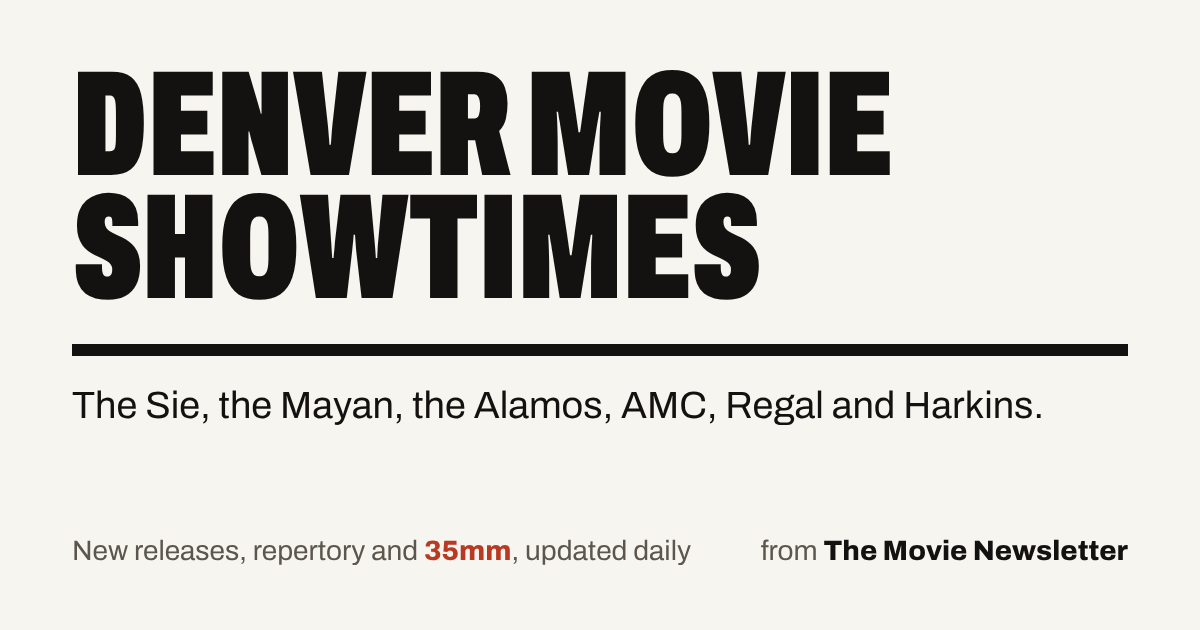
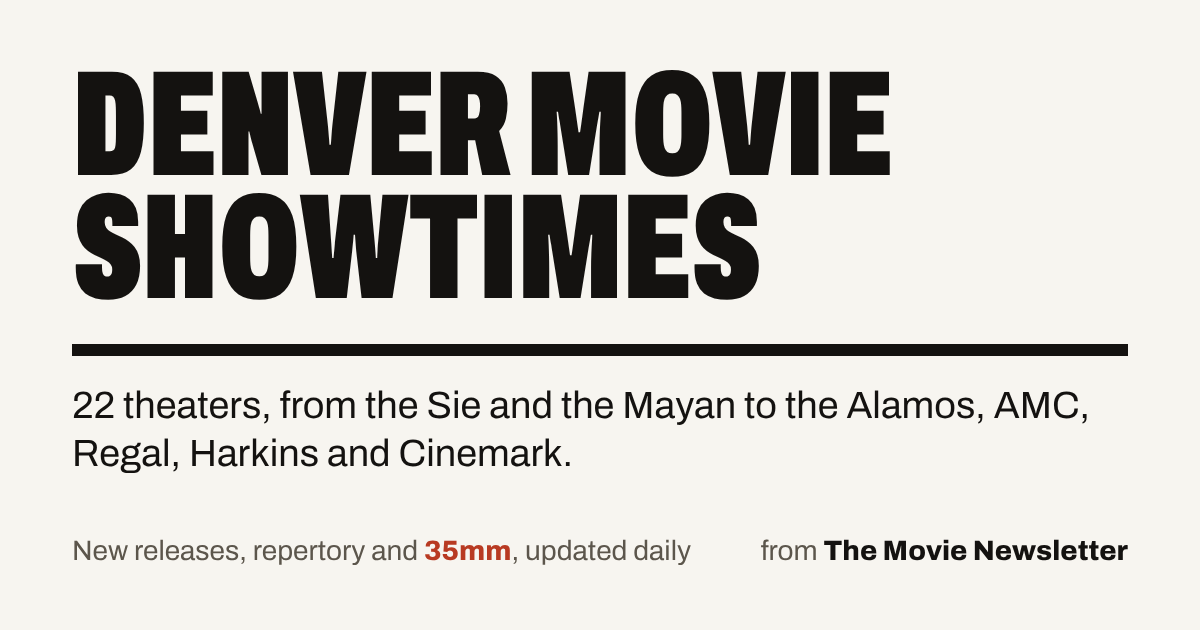
Add every theater within 15 miles of 80218 (22 in all)
Ten more theaters, all on Fandango and unchecked by default, so readers
anywhere in the metro can find the ones nearest them: AMC Dine-In Cherry
Creek 8, Bowles Crossing 12, Highlands Ranch 24 and Arapahoe Crossing 16;
Regal River Point, SouthGlenn and UA Colorado Mills; Cinemark Century
Bel Mar and Century Aurora; Movie Tavern Aurora.

- Distance picks gain "10 mi" (the new theaters run out to 13 mi, so
  5 mi -> any distance jumped straight to all 22).
- data.json lists each poster URL once per film (the page gathers
  posters per film); a failed theater's carried rows get theirs back.
  Cuts a third of the file: 22 theaters come to ~4.6 MB raw, ~570 KB
  gzipped, instead of ~6.6 MB.
- Drop Cinemark Secret Movie Series (with Harkins Secret Cinema); strip
  "- Super Ticket" bundles.
- Footer links Cinemark and Movie Tavern; Substack card and docs updated.

Claude-Session: https://claude.ai/code/session_01Tp9dhwuJZfa7VfqqSeWP34

Changed region(s): [[0.0617, 0.6032, 0.8942, 0.6937], [0.0617, 0.6937, 0.4625, 0.754]]

diff --git a/public/app.js b/public/app.js
@@ -11,20 +11,30 @@
   var SHORT = { sie: "Sie FilmCenter", landmark: "Landmark Mayan", amc: "AMC 9+CO 10", regal_pavilions: "Regal Pavilions",
     alamo_sloans: "Alamo Sloans Lake", alamo_westminster: "Alamo Westminster", alamo_littleton: "Alamo Littleton",
     regal_colorado: "Regal Colorado Ctr", amc_westminster: "AMC Westminster",
-    landmark_greenwood: "Landmark Greenwood Village", harkins_arvada: "Harkins Arvada", harkins_northfield: "Harkins Northfield" };
+    landmark_greenwood: "Landmark Greenwood Village", harkins_arvada: "Harkins Arvada", harkins_northfield: "Harkins Northfield",
+    amc_cherry_creek: "AMC Cherry Creek", cinemark_belmar: "Cinemark Bel Mar", regal_river_point: "Regal River Point",
+    cinemark_aurora: "Cinemark Aurora", regal_southglenn: "Regal SouthGlenn", regal_colorado_mills: "Regal Colorado Mills",
+    amc_bowles: "AMC Bowles Crossing", amc_highlands_ranch: "AMC Highlands Ranch", movie_tavern_aurora: "Movie Tavern Aurora",
+    amc_arapahoe: "AMC Arapahoe Crossing" };
   var THEATER_SITES = [   // one link per company; each site lists its own locations
     ["Sie FilmCenter", "https://www.denverfilm.org/"],
     ["Landmark", "https://www.landmarktheatres.com/"],
     ["AMC", "https://www.amctheatres.com/"],
     ["Regal", "https://www.regmovies.com/"],
     ["Harkins", "https://www.harkins.com/"],
-    ["Alamo Drafthouse", "https://drafthouse.com/denver"]
+    ["Cinemark", "https://www.cinemark.com/"],
+    ["Alamo Drafthouse", "https://drafthouse.com/denver"],
+    ["Movie Tavern", "https://www.marcustheatres.com/"]   // Marcus runs it; movietavern.com's certificate had lapsed (Nov 2026)
   ];
   // Shortest names, for the times under a poster, the hour list and the "At Sie and Mayan" line.
   var TINY = { sie: "Sie", landmark: "Mayan", amc: "AMC 9+CO 10", regal_pavilions: "Regal Pavilions",
     alamo_sloans: "Alamo Sloans Lake", alamo_westminster: "Alamo Westminster", alamo_littleton: "Alamo Littleton",
     regal_colorado: "Regal Colorado", amc_westminster: "AMC Westminster",
-    landmark_greenwood: "Landmark Greenwood Village", harkins_arvada: "Harkins Arvada", harkins_northfield: "Harkins Northfield" };
+    landmark_greenwood: "Landmark Greenwood Village", harkins_arvada: "Harkins Arvada", harkins_northfield: "Harkins Northfield",
+    amc_cherry_creek: "AMC Cherry Creek", cinemark_belmar: "Cinemark Bel Mar", regal_river_point: "Regal River Point",
+    cinemark_aurora: "Cinemark Aurora", regal_southglenn: "Regal SouthGlenn", regal_colorado_mills: "Regal Colorado Mills",
+    amc_bowles: "AMC Bowles Crossing", amc_highlands_ranch: "AMC Highlands Ranch", movie_tavern_aurora: "Movie Tavern Aurora",
+    amc_arapahoe: "AMC Arapahoe Crossing" };
   // Formats and languages (scraper's formats.py): IMAX, Dolby, film prints and 3D by name; every other
   // premium screen is "PLF"; "Subtitled" / "Dubbed". A theater whose showings all share one goes on its
   // line; mixed ones get a short red mark per time (anything not listed uses its own name).
@@ -139,7 +149,7 @@
   var REPERTORY_DAYS = 730;
   var RUN_GAP_DAYS = 3;     // a new release off today but back within this many days is still "Now playing"
   var SPAN_SHOWN = 3;       // All dates / search: theaters listed before "Show all N theaters"
-  var TK_SHOWN = 5;         // phones: theaters in the opened checklist before "Show all 12 theaters"
+  var TK_SHOWN = 5;         // phones: theaters in the opened checklist before "Show all 22 theaters"
   var CLAMP_PX = 210;       // a card's times stop here (styles.css .venues.clamp) ...
   var CLAMP_SLACK = 90;     // ... but only when that hides this much more: never a button for a line or two
   var WINDOW_DAYS = 14;     // the day strip: today + 14 (Sie, Landmark and Alamo list up to ~90 days out)
@@ -246,7 +256,7 @@
   }
 
   // Phones list the theaters top to bottom: the nearest few and any that are checked, the rest
-  // behind "Show all 12 theaters" so Show / Sort aren't a long scroll away. Picked when the list
+  // behind "Show all 22 theaters" so Show / Sort aren't a long scroll away. Picked when the list
   // opens or the zip / distance changes, not on each tap, so a row never vanishes as it's unchecked.
   function pickShownTheaters() {
     var near = theaters.slice().sort(function (a, b) { return (miles(a) || 0) - (miles(b) || 0); });

diff --git a/public/index.html b/public/index.html
@@ -42,6 +42,7 @@
             <button type="button" class="pick" data-r="1" aria-pressed="false">1 mi</button>
             <button type="button" class="pick" data-r="3" aria-pressed="false">3 mi</button>
             <button type="button" class="pick" data-r="5" aria-pressed="false">5 mi</button>
+            <button type="button" class="pick" data-r="10" aria-pressed="false">10 mi</button>
             <button type="button" class="pick" data-r="all" aria-pressed="false">any distance</button>
             <span class="zipnote" id="zipNote" hidden>That zip isn't in the Denver area.</span>
           </div>

diff --git a/tests/test_pipeline.py b/tests/test_pipeline.py
@@ -179,6 +179,12 @@ def test_is_non_film_drops_ufc_broadcasts():
     assert not is_non_film("Jack Johnson: Surfilmusic", DEFAULT_DROP)
 
 
+def test_is_non_film_drops_mystery_series():
+    assert is_non_film("Harkins Secret Cinema", DEFAULT_DROP)
+    assert is_non_film("Cinemark Secret Movie Series", DEFAULT_DROP)
+    assert not is_non_film("The Secret Agent", DEFAULT_DROP)
+
+
 def test_is_non_film_drop():
     assert is_non_film("AMC Screen Unseen: June 22", DEFAULT_DROP)
     assert is_non_film("¡GOLAZO!: 2026 Soccer Watch Parties", DEFAULT_DROP)
@@ -213,6 +219,40 @@ def test_secondary_theaters_config():
     assert c.theaters["regal_colorado"].scraper == "fandango"
 
 
+def test_build_feed_lists_each_poster_once_per_film():
+    a1, a2, b = st("A", 19, "amc"), st("A", 21, "regal_pavilions"), st("B", 20, "amc")
+    a1.poster = a2.poster = "https://img/a.jpg"
+    b.poster = "https://img/a.jpg"                 # same art on another film still shows for it
+    feed = _build_feed(fresh_cfg(), [a2, b, a1], DEN)
+    got = [(e["title"], e["start"][11:16], e["extendedProps"].get("poster")) for e in feed["events"]]
+    assert got == [("A", "19:00", "https://img/a.jpg"), ("B", "20:00", "https://img/a.jpg"), ("A", "21:00", None)]
+
+
+def test_carried_rows_get_their_poster_back():
+    prev = {"events": [
+        {"title": "A", "start": "2026-06-18T19:00:00-06:00", "extendedProps": {"theater": "flaky", "poster": "p.jpg"}},
+        {"title": "A", "start": "2026-06-20T19:00:00-06:00", "extendedProps": {"theater": "flaky"}},
+        {"title": "B", "start": "2026-06-20T19:00:00-06:00", "extendedProps": {"theater": "flaky"}},
+    ]}
+    out = pipeline._carried_events(prev, ["flaky"], date(2026, 6, 19))
+    assert [(e["title"], e["extendedProps"].get("poster")) for e in out] == [("A", "p.jpg"), ("B", None)]
+    assert "poster" not in prev["events"][1]["extendedProps"]   # the previous feed isn't changed
+
+
+def test_every_theater_within_15_miles_is_configured():
+    c = fresh_cfg()
+    added = {"amc_cherry_creek": "AAADR", "cinemark_belmar": "AARMQ", "regal_river_point": "AAVKZ",
+             "cinemark_aurora": "AAJNI", "regal_southglenn": "AAVRY", "regal_colorado_mills": "AAQQK",
+             "amc_bowles": "AABAT", "amc_highlands_ranch": "AAECM", "movie_tavern_aurora": "AAUFX",
+             "amc_arapahoe": "AAEWN"}
+    assert len(c.theaters) == 22
+    for key, tid in added.items():
+        t = c.theaters[key]
+        assert t.enabled and t.default_on is False and t.scraper == "fandango" and t.location == tid
+        assert 39.5 < t.lat < 39.9 and -105.2 < t.lon < -104.7
+    assert [k for k, t in c.theaters.items() if t.default_on] == ["sie", "landmark"]
+
+
 def test_build_feed_carries_default_on():
     c = fresh_cfg()
     feed = _build_feed(c, [st("A", 19, "amc")], DEN)
@@ -228,6 +268,7 @@ def test_title_variants_from_fandango_and_amc():
     for raw, want in [
         ("The Nightmare Before Christmas Re-release", "The Nightmare Before Christmas"),
         ("The Nightmare Before Christmas (RE26)", "The Nightmare Before Christmas"),
+        ("The Hunger Games: Sunrise on the Reaping - Super Ticket", "The Hunger Games: Sunrise on the Reaping"),
         ("The Hunger Games: Sunrise on the Reaping Early Access",
          "The Hunger Games: Sunrise on the Reaping"),
         ("Sinners Early Access Screening", "Sinners"),

diff --git a/src/movie_scraper/pipeline.py b/src/movie_scraper/pipeline.py
@@ -349,11 +349,27 @@ def year_hints(shows: list[Showtime]) -> dict[str, int | None]:
 
 
 def _carried_events(previous: dict | None, theaters: list[str], today: date) -> list[dict]:
-    """A failed theater's still-upcoming events from the last feed, so it stays on the site."""
+    """A failed theater's still-upcoming events from the last feed, so it stays on the site.
+
+    The feed lists each poster once per film (on its first showing), so a carried row whose
+    poster sat on an earlier row gets it back here; `_build_feed` trims the repeats again.
+    """
     if not previous or not theaters:
         return []
-    return [e for e in previous.get("events", [])
-            if e["extendedProps"]["theater"] in theaters and e["start"][:10] >= today.isoformat()]
+    old = previous.get("events", [])
+    art: dict[tuple[str, str], str] = {}
+    for e in old:
+        p = e["extendedProps"].get("poster")
+        if p:
+            art.setdefault((e["title"], e["extendedProps"]["theater"]), p)
+            art.setdefault((e["title"], ""), p)
+    out = []
+    for e in old:
+        x = e["extendedProps"]
+        if x["theater"] in theaters and e["start"][:10] >= today.isoformat():
+            p = x.get("poster") or art.get((e["title"], x["theater"])) or art.get((e["title"], ""))
+            out.append({**e, "extendedProps": {**x, **({"poster": p} if p else {})}})
+    return out
 
 
 def _passes(s: Showtime, cfg: Config) -> bool:
@@ -380,6 +396,16 @@ def _build_feed(cfg: Config, shows: list[Showtime], tz: ZoneInfo,
                 carried: list[dict] = (), stale: list[str] = ()) -> dict:
     events = [s.to_event() for s in shows] + list(carried)
     events.sort(key=lambda e: (e["start"], e["extendedProps"]["theater"], e["title"]))
+    # Each poster once per film: the page gathers a film's posters from all its showings, and
+    # repeating the same URL on every showing was over a third of data.json.
+    seen: set[tuple[str, str]] = set()
+    for e in events:
+        p = e["extendedProps"].get("poster")
+        if p:
+            if (e["title"], p) in seen:
+                e["extendedProps"] = {k: v for k, v in e["extendedProps"].items() if k != "poster"}
+            else:
+                seen.add((e["title"], p))
     films = sorted({e["title"] for e in events}, key=str.lower)
 
     return {

diff --git a/src/movie_scraper/config.py b/src/movie_scraper/config.py
@@ -52,6 +52,7 @@ DEFAULT_STRIP_SUFFIXES = [
     r"\s*[-–—]\s*Studio Ghibli Fest(?:ival)?(?:\s+\d{4})?$",  # "... - Studio Ghibli Fest 2026"
     r"\s+(?:IMAX\s+)?(?:Opening Night\s+)?Fan Event$",        # "MOANA IMAX Opening Night Fan Event"
     r"\s+(?:IMAX\s+)?(?:Early Access(?:\s+Screenings?)?|Advance\s+Screenings?)$",  # "... Early Access [Screening]"
+    r"\s*[-–—:]\s*Super Ticket$",                          # ticket bundles: "The Hunger Games: ... - Super Ticket"
     r"\s*[-–—:]?\s*\(?\b(?:Re-?release|Re-?issue|RE\d{2})\)?$",  # "Coraline Re-release" / "Dune: Part One Reissue" / "(RE26)"
     r"\s+(?:on|in)\s+(?:\d{2,3}\s?mm|VistaVision)(?:\s+film)?$",   # "Interstellar on 35mm" / "... in 70mm" / "... in VistaVision"
     r"\s*[:–—-]\s*Sensory[- ]?Friendly\b.*$",  # "Supergirl: Sensory Friendly Screening" -> "Supergirl"
@@ -73,7 +74,7 @@ DEFAULT_DROP = [
     r"Apple TV Live",             # live sports broadcasts: "F1 on Apple TV Live in IMAX: ..."
     r"Memorial Screening",        # tribute events with no film named: "Classic - ... Memorial Screening"
     r"Mystery Movie",
-    r"Secret Cinema",             # Harkins mystery screenings, no film named             # surprise screenings, no film named (e.g. "REGAL: Monday Mystery Movie")
+    r"Secret (?:Cinema|Movie)",   # mystery screenings, no film named (Harkins Secret Cinema, Cinemark Secret Movie Series)
     r"\bUFC \d",                  # live UFC pay-per-view broadcasts ("UFC 329: ..."), not films
     r"Members?\s+Only",           # members-only screenings (public can't attend) — drop them
     r"League of Legends",         # live esports broadcasts ("League of Legends Worlds 26 - Finals")

diff --git a/CLAUDE.md b/CLAUDE.md
@@ -44,8 +44,10 @@ scrapers → cleanup rules → TMDB match → trending, openings → public/data
 - **Nothing piles up:** each run rebuilds `data.json` for today … +14 days (Sie, Landmark and Alamo
   to +90, ~350 more showings); `openings` forget films
   400 days after they last opened; `film_meta`/`tmdb_ids` hold only current films. Events carry only
-  the fields the site reads (no nulls), so a daily data commit is ~2.5 MB raw. Git history grows
-  ~30–120 MB/year; don't rewrite history to trim it.
+  the fields the site reads (no nulls), and each poster URL only on a film's first showing
+  (`_build_feed`; the page gathers posters per film), so with 22 theaters (~7,900 showings) a daily
+  data commit is ~4.6 MB raw, ~570 KB as served (gzip). Most of what's left is Fandango ticket
+  links (a unique hash each). Git history grows ~60–200 MB/year; don't rewrite history to trim it.
 
 ### Secrets (repository → Settings → Secrets and variables → Actions)
 
@@ -80,9 +82,10 @@ optional `end`/`allDay`, `extendedProps`: `theater`, `screen`, `fmt`, `ticketUrl
 
 ## Theaters (`config.toml` `[theaters.*]`)
 
-Twelve theaters. Sie and Landmark Mayan start on; the rest have `default_on = false`.
-One scraper can back several theaters via `scraper` + `location`. `lat`/`lon` drive the distance
-filter.
+Twenty-two theaters: **every year-round theater within 15 mi of 80218** (checked on Fandango Nov
+2026), so readers anywhere in the metro can find the ones nearest them. Sie and Landmark Mayan start
+on; the rest have `default_on = false`. One scraper can back several theaters via `scraper` +
+`location`. `lat`/`lon` drive the distance filter.
 
 | Theater | Source |
 |---|---|
@@ -91,16 +94,26 @@ filter.
 | AMC 9+CO 10 / Westminster Promenade 24 | **Fandango** `napi/theaterMovieShowtimes/<id>`; AAYUA / AAECN |
 | Regal UA Denver Pavilions / Colorado Center | **Fandango**; AAJJG / AAFXW |
 | Harkins Arvada 14 / Northfield 18 | **Fandango**; AAYFG / AATYG |
+| AMC Dine-In Cherry Creek 8 / Bowles Crossing 12 / Highlands Ranch 24 / Arapahoe Crossing 16 | **Fandango**; AAADR / AABAT / AAECM / AAEWN |
+| Regal River Point / SouthGlenn / UA Colorado Mills | **Fandango**; AAVKZ / AAVRY / AAQQK |
+| Cinemark Century Bel Mar 16 and XD / Century Aurora and XD | **Fandango**; AARMQ / AAJNI |
+| Movie Tavern Aurora (Marcus) | **Fandango**; AAUFX |
 | Alamo Drafthouse Sloans Lake / Westminster / Littleton | `drafthouse.com/s/mother/v2/schedule/venue/<location>` (JSON, one request each, whole schedule); `sloans-lake` / `westminster` / `littleton` |
 
-- **AMC, Regal and Harkins come from Fandango:** amctheatres.com and regmovies.com block scrapers
-  (Cloudflare / bot challenges); Fandango's `napi` JSON is open over plain httpx, and its ticket
-  links work. Fandango silently serves a grey "F" placeholder image when it lacks a poster.
-- **Coverage checked Nov 2026** (within 10 mi of 80206): also on Fandango but not added — AMC Dine-In
-  Cherry Creek 8 (AAADR; 12 of 13 films duplicated elsewhere), Regal River Point, Cinemark Bel Mar
-  16, Cinemark Century Aurora, Regal SouthGlenn. The Esquire closed July 2024. Alamo Westminster and
-  Littleton (~10 mi) were added Nov 2026, off by default: cheap (one request each) and Alamo programs
-  repertory and 35mm.
+- **AMC, Regal, Harkins, Cinemark and Movie Tavern come from Fandango:** amctheatres.com and
+  regmovies.com block scrapers (Cloudflare / bot challenges); Fandango's `napi` JSON is open over
+  plain httpx, and its ticket links work. One request per theater per day (~0.3 s each), so the ten
+  added in Nov 2026 cost under a minute a run. Fandango silently serves a grey "F" placeholder image
+  when it lacks a poster.
+- **Coverage (Nov 2026):** Fandango's `napi/theaterswithshowtimes?zipCode=` returns only the nearest
+  21 per zip, so the 15 mi list was built from 80218 plus a ring of suburban zips. Just past 15 mi:
+  AMC Orchard 12, AMC Flatiron Crossing 14, AMC Southlands 16. Not on Fandango: the 88 Drive-In
+  (Commerce City, seasonal, first-run double features; would need its own scraper) and summer-only
+  series (Elitch Theatre, Sunset Cinema, the Bug's occasional nights). Closed: the Esquire (July
+  2024), Chez Artiste (Aug 2024), Denver Mart Drive-In (2021). The ten chains added Nov 2026 mostly
+  repeat films playing nearer in, but brought ~21 films found nowhere else (Fathom-style repertory:
+  Goldfinger, Scarface, Miami Vice…) and three more IMAX screens (Colorado Mills, Highlands Ranch,
+  Arapahoe Crossing).
 - **Regal Colorado Center** shrank from ~20 films / ~430 showtimes (July) to ~5–6 / ~115 (Nov 2026)
   while the feed stayed healthy, so the theater itself is running fewer screens. If it drops to
   zero, check regmovies.com in a browser before treating it as a scraper failure.
@@ -117,8 +130,10 @@ Prefer **general** patterns over one-offs.
 - `strip_suffixes` — release year `(2026)`, `Nth Anniversary` (paren/colon forms), `… Cut`,
   `… Edition`, `Re-release`/`Reissue`/`(RE26)`, `Encore`/`(2026 Encore)`, language versions
   (`(English 2026)`, `(Hindi Dubbed)`), `on 35mm` (gauge kept as the format), `(dir. X)`, Sensory
-  Friendly, sponsor tags, Fan Event / Early Access / Promo / Preview screenings, `w/ …`.
-- `drop` — not films: mystery screenings (Screen Unseen, Mystery Movie, Harkins Secret Cinema),
+  Friendly, sponsor tags, Fan Event / Early Access / Promo / Preview screenings, `- Super Ticket`
+  (ticket bundles), `w/ …`.
+- `drop` — not films: mystery screenings (Screen Unseen, Mystery Movie, Harkins Secret Cinema,
+  Cinemark Secret Movie Series),
   private rentals, members-only, memorials, watch parties, live sports and esports. Concerts, opera,
   NT Live and TV-episode screenings are **kept**.
 - `normalize_title()` also fixes ALL-CAPS/lowercase titles and dangling `:`/`-`;
@@ -202,12 +217,12 @@ redesign directions" (A listings + C program won; B marquee rejected).
 
 - **Controls:** masthead "Denver Movie Showtimes" with the chosen date under it · sticky day strip
   ("All dates", then the weekday, never "Today", "Nov" over a big "10" over "Tue", like a tear-off calendar, every day the same width; the selected day is a brick block) · **Theaters**:
-  "Theaters near [zip] within 1 mi / 3 mi / 5 mi / any distance" and a checklist of all twelve nearest first
+  "Theaters near [zip] within 1 mi / 3 mi / 5 mi / 10 mi / any distance" and a checklist of all 22 nearest first
   with miles in one row that scrolls sideways: no scrollbar, the side with more fades and gets a ‹ / ›
   arrow (no counts, no theater colors). **Phones** fold theaters *and* Show/Sort into one line, "At Sie
   and Mayan, all films, newest first · Change", with search under it; opened, the checklist runs top
   to bottom with the 5 nearest plus any checked (`TK_SHOWN`, picked on open / zip / distance, not per
-  tap) and "Show all 12 theaters" / "Show fewer theaters", so Show / Sort stay close. Hover colors
+  tap) and "Show all 22 theaters" / "Show fewer theaters", so Show / Sort stay close. Hover colors
   only apply under `(hover: hover)` (a tap leaves :hover stuck on phones). The masthead is one line and
   the date line is dropped (the brick day says it), so posters start in the first screen. Zip default
   **80218**, **never saved**; straight-line distance from Census zip centroids in `zips.json`. Theater
@@ -273,7 +288,7 @@ redesign directions" (A listings + C program won; B marquee rejected).
 - **Privacy:** no cookies, no analytics. The only browser storage is the theater pick
   (`dst-theaters` in `localStorage`, never sent anywhere); the zip is never saved. Third-party
   requests are poster images only (TMDB, Fandango, theaters). Keep it that way.
-- **Footer** credits TMDB (logo + required notice; posters, directors and synopses) and Wikipedia, and links each theater company's site (one link per company).
+- **Footer** credits TMDB (logo + required notice; posters, directors and synopses) and Wikipedia, and links each theater company's site (one link per company; Movie Tavern goes to marcustheatres.com, as movietavern.com's certificate had lapsed in Nov 2026).
 - **Cache-busting:** `index.html` loads `styles.css`/`app.js` with `?v=__ASSET_VERSION__`, replaced
   with the commit SHA on deploy; `data.json` is fetched `no-store`. OG tags use `__SITE_URL__`.
 

diff --git a/README.md b/README.md
@@ -30,6 +30,7 @@ scraper (GitHub Actions)  ──►  public/data.json  ──►  static site (F
 | AMC Westminster Promenade 24 | Fandango napi (theater id `AAECN`) | Exact showtimes + formats; tickets link to Fandango; **off by default** |
 | Alamo Drafthouse Sloans Lake | "mother" schedule API (`drafthouse.com/s/mother/v2`) | Exact showtimes, screen, special formats (35/70mm); **off by default** |
 | Regal Colorado Center / Denver Pavilions | Fandango napi (`fandango.com/napi/theaterMovieShowtimes`) | Exact showtimes + formats (IMAX/RPX), via plain httpx; **off by default** |
+| Harkins, Cinemark, Movie Tavern, more AMC and Regal, Alamo Westminster / Littleton, Landmark Greenwood Village | Fandango napi, or the Alamo / Landmark APIs above | Every year-round theater within 15 mi of 80218 (22 in all); **off by default** |
 
 "Off by default" theaters are scraped and available, but their filter chip starts unchecked —
 readers click it to add them. **AMC and Regal** read from **Fandango** (one JSON call per date, no
